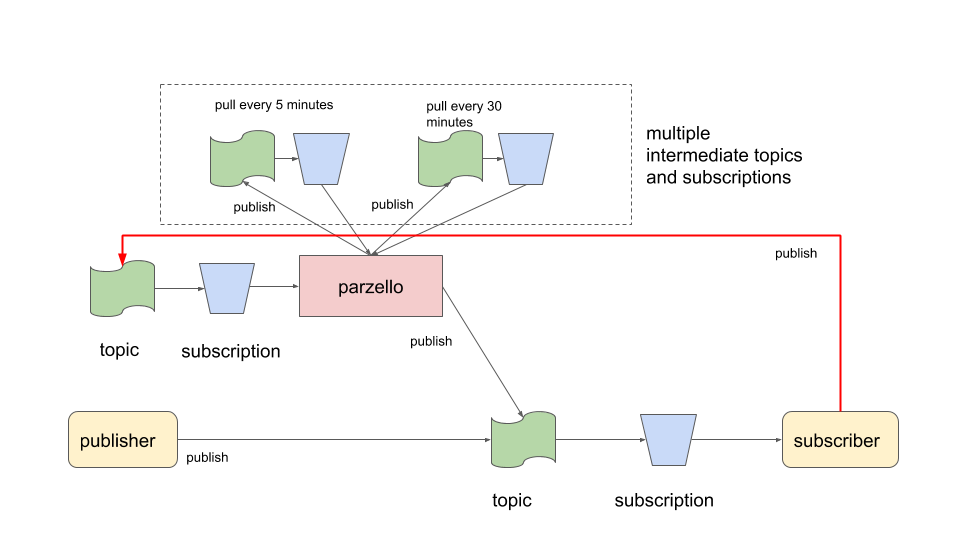
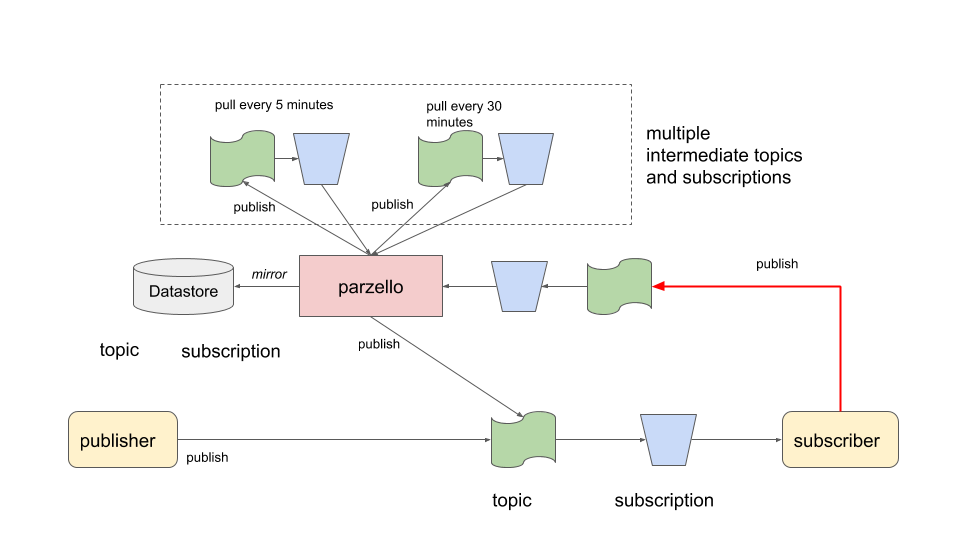
update docs about DataStore mirroring

diff --git a/README.md b/README.md
@@ -35,6 +35,10 @@ The `parzello` service will publish that message to one of its intermediary topi
 Each such topic has its own listener (pulling messaging) at a time interval.
 Using a configuration, you must specify which intermediary topics you have created with durations based on your estimations of the actual delay amounts.
 
+## mirror messages
+
+When messages are being retried multiple times, it can very helpful to inspect those messages to see the reason and the payload of such a message. To support this in `parzello`, messages can be mirrored in a DataStore by indicating this using the `parzello.datastoreMirror` and `parzello.datastoreInfo` properties. Message stored in DataStore can be easily queries using the Google Cloud Console. Once a message is published to its destination topic, it will also be deleted from the DataStore.
+
 ![](./doc/parzello_delay.png)
 
 In this diagram, 2 such topics exists. One is pulled every 5 minutes. 
@@ -58,9 +62,9 @@ By passing publisch count metadata to the retry message, a subscriber can inspec
 |---------------------------|-----------|--------
 |parzello.destinationTopic  |true       |topic to which the message eventually must be published
 |parzello.publishAfter      |false      |Unix time (seconds after 1970) after which the message must be published
-|parzello.datastoreMirror   |false      |if set then also store the message with payload in DataStore for querying
+|parzello.datastoreMirror   |false      |if set to "true" then also store the message with payload in DataStore for querying
 |parzello.datastoreInfo     |false      |use this field to add context information in the DataStore
-|X-Cloud-Debug              |false      |if set then for this message debug logging is produced
+|X-Cloud-Debug              |false      |if set to some identifier then for this message debug logging is produced
 
 #### properties on a message received through `parzello`
 
